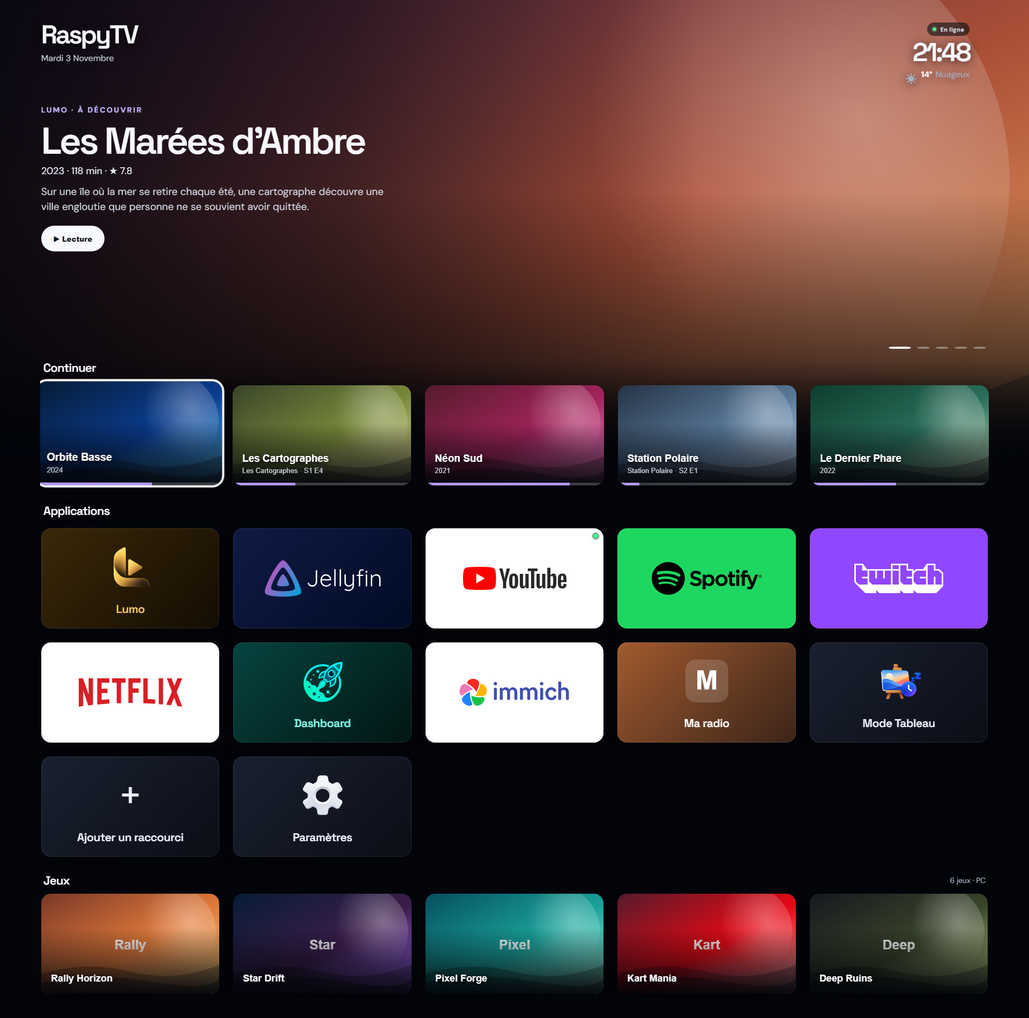
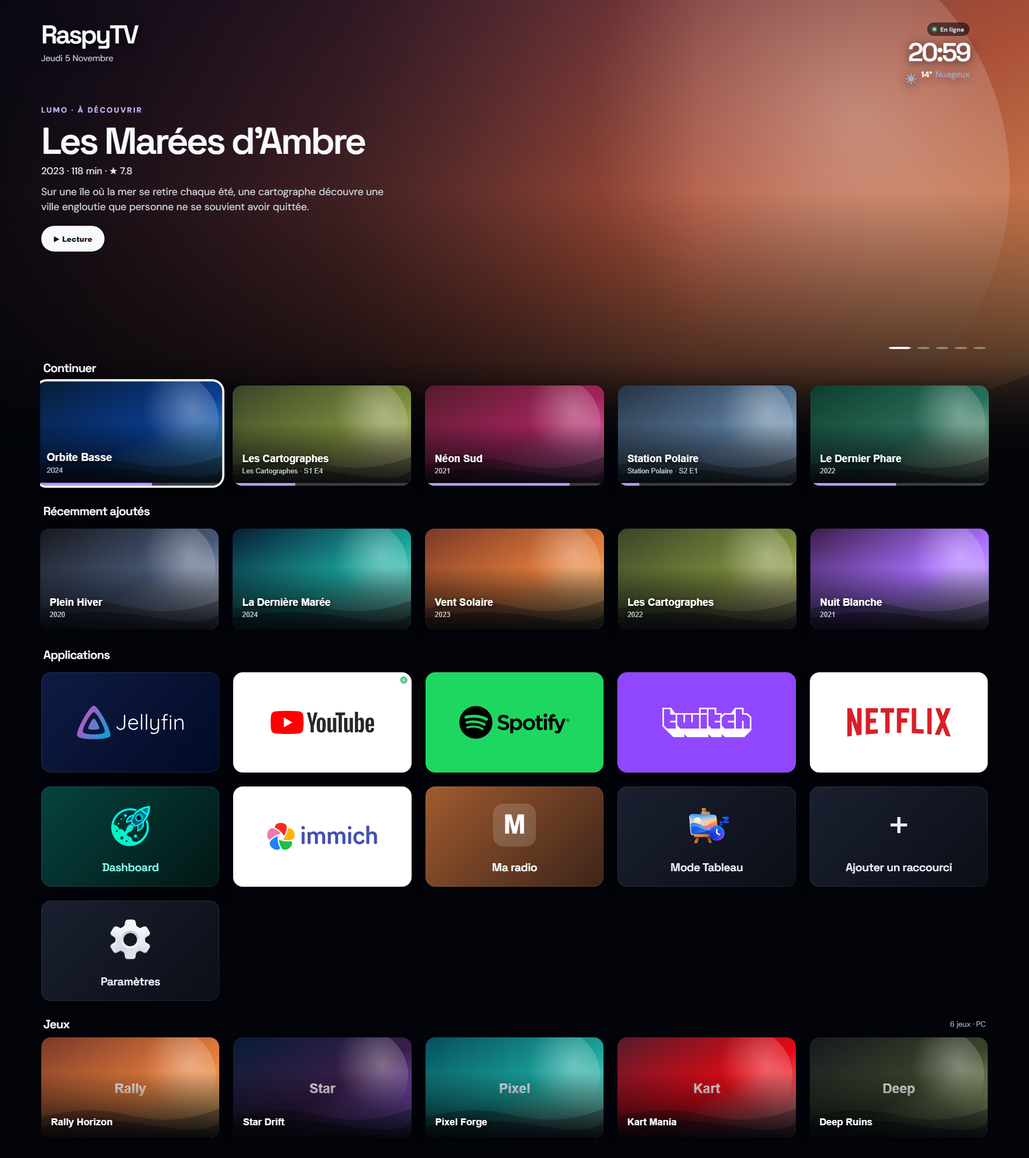
Tuile Jellyfin unique et ligne « Récemment ajoutés »
Retire la tuile Lumo : la page cinematic n'existe plus depuis Jellyfin
12.4. Une seule tuile ouvre l'interface web de Jellyfin. La lecture
depuis l'accueil ouvre la fiche du film et utilise son bouton de lecture,
et Échap ferme le lecteur natif. Ajoute une ligne des 20 derniers films
ajoutés sous « Continuer ».

Retire lumoPath et jellyfinRemoteUrl de site.json.

diff --git a/renderer.js b/renderer.js
@@ -13,8 +13,7 @@ function icon(app) { return /^(file:|https?:|assets\/)/.test(app.icon || '') ? `
 function play(kind = 'hover') { if (!state?.config.sounds) return; const now = performance.now(); if (kind === 'hover' && now - lastHoverAt < 200) return; if (kind === 'hover') lastHoverAt = now; if (!audioPlayers) { audioPlayers = { hover: new Audio('assets/sounds/navigation.wav'), open: new Audio('assets/sounds/navigation2.wav') }; Object.values(audioPlayers).forEach(audio => audio.preload = 'auto'); } if (kind === 'open') audioPlayers.hover.pause(); const audio = audioPlayers[kind === 'open' ? 'open' : 'hover']; audio.pause(); audio.currentTime = 0; audio.volume = Math.min(1, Math.max(0, state.config.soundVolume / 100)); audio.play().catch(() => {}); }
 // Full wordmarks on brand colours; services without a wordmark show their mark and name.
 const BRAND_TILES = {
-  jellyfin: { mark: 'assets/icons/lumo.png', label: 'Lumo', bg: 'linear-gradient(135deg,#3a2808,#140d03)', fg: '#f3c766' },
-  'jellyfin-web': { logo: 'assets/logos/jellyfin.svg', bg: 'linear-gradient(135deg,#101b45,#000b25)' },
+  jellyfin: { logo: 'assets/logos/jellyfin.svg', bg: 'linear-gradient(135deg,#101b45,#000b25)' },
   youtube: { logo: 'assets/logos/youtube.svg', bg: '#ffffff' },
   spotify: { logo: 'assets/logos/spotify.svg', bg: '#1ed760' },
   twitch: { logo: 'assets/logos/twitch.svg', bg: '#9146ff' },
@@ -38,7 +37,7 @@ function home() {
   const artCard = utilityTile('data-art', '<img src="assets/icons/gallery.png" alt="" draggable="false">', 'Mode Tableau');
   const addCard = utilityTile('data-add', '<span class="tile-plus">+</span>', 'Ajouter un raccourci');
   const settingsCard = utilityTile('data-page="settings"', '<img src="assets/icons/settings.png" alt="" draggable="false">', 'Paramètres');
-  return `<header class="tv-header"><div class="identity"><div><strong>RaspyTV</strong><p class="date" id="date">${dateText()}</p></div></div><div class="weather-stack">${networkBadge()}${state.config.showClock ? `<time id="clock">${timeText()}</time>` : ''}${state.config.showWeather ? weather() : ''}</div></header><section id="cinema-hero" class="cinema-hero is-loading" aria-live="polite"><div class="hero-shade"></div><div class="hero-copy"><span class="hero-kicker">LUMO · À DÉCOUVRIR</span><h1>Votre cinéma</h1><p>Chargement de votre sélection…</p></div></section><section class="home-stage"><section id="continue-section" class="content-strip" hidden><div class="home-section-head"><h2>Continuer</h2></div><div id="continue-row" class="continue-row"></div></section><section class="apps-section"><div class="home-section-head"><h2>Applications</h2></div><div class="grid tv-grid">${apps.map(appCard).join('')}${artCard}${addCard}${settingsCard}</div></section><section class="games-section"><div class="home-section-head"><h2>Jeux</h2><span id="moonlight-status">Moonlight · synchronisation…</span></div><div id="moonlight-row" class="game-row"><button class="game-card moonlight-setup" data-moonlight-open><img src="assets/icons/moonlight.svg" alt=""><span>Chargement des jeux…</span></button></div></section></section>`;
+  return `<header class="tv-header"><div class="identity"><div><strong>RaspyTV</strong><p class="date" id="date">${dateText()}</p></div></div><div class="weather-stack">${networkBadge()}${state.config.showClock ? `<time id="clock">${timeText()}</time>` : ''}${state.config.showWeather ? weather() : ''}</div></header><section id="cinema-hero" class="cinema-hero is-loading" aria-live="polite"><div class="hero-shade"></div><div class="hero-copy"><span class="hero-kicker">LUMO · À DÉCOUVRIR</span><h1>Votre cinéma</h1><p>Chargement de votre sélection…</p></div></section><section class="home-stage"><section id="continue-section" class="content-strip" hidden><div class="home-section-head"><h2>Continuer</h2></div><div id="continue-row" class="continue-row"></div></section><section id="recent-section" class="content-strip" hidden><div class="home-section-head"><h2>Récemment ajoutés</h2></div><div id="recent-row" class="continue-row"></div></section><section class="apps-section"><div class="home-section-head"><h2>Applications</h2></div><div class="grid tv-grid">${apps.map(appCard).join('')}${artCard}${addCard}${settingsCard}</div></section><section class="games-section"><div class="home-section-head"><h2>Jeux</h2><span id="moonlight-status">Moonlight · synchronisation…</span></div><div id="moonlight-row" class="game-row"><button class="game-card moonlight-setup" data-moonlight-open><img src="assets/icons/moonlight.svg" alt=""><span>Chargement des jeux…</span></button></div></section></section>`;
 }
 function settings() { const c = state.config; return `<header><button class="back" data-home>← <span>Accueil</span></button><div class="brand"><strong>Paramètres</strong></div></header><div class="settings"><section><h1>Personnalise Raspy TV</h1><p>Les réglages sont enregistrés localement sur ce Raspberry Pi.</p></section><section class="setting-card"><h2>Apparence</h2><label>Thème <select data-setting="theme"><option value="dark" ${c.theme === 'dark' ? 'selected' : ''}>Sombre</option><option value="light" ${c.theme === 'light' ? 'selected' : ''}>Clair</option><option value="auto" ${c.theme === 'auto' ? 'selected' : ''}>Automatique</option></select></label><label><input type="checkbox" data-setting="reducedMotion" ${c.reducedMotion ? 'checked' : ''}> Réduire les animations</label><label><input type="checkbox" data-setting="clock24" ${c.clock24 ? 'checked' : ''}> Heure au format 24 h</label></section><section class="setting-card"><h2>Accueil</h2><label><input type="checkbox" data-setting="showWeather" ${c.showWeather ? 'checked' : ''}> Afficher la météo de ${esc(state.site?.weatherLabel || 'ma ville')}</label><label><input type="checkbox" data-setting="showClock" ${c.showClock ? 'checked' : ''}> Afficher l’horloge</label><label><input type="checkbox" data-setting="showSpotify" ${c.showSpotify ? 'checked' : ''}> Afficher le widget Spotify</label><label><input type="checkbox" data-setting="showRecent" ${c.showRecent ? 'checked' : ''}> Afficher les applications récentes</label></section><section class="setting-card" id="audio-settings"><h2>Audio</h2><label><input type="checkbox" data-setting="sounds" ${c.sounds ? 'checked' : ''}> Sons d’interface</label><label>Volume des bruitages <input type="range" min="0" max="100" value="${c.soundVolume}" data-setting="soundVolume"><output>${c.soundVolume}%</output></label><div class="audio-system"><p>Détection des sorties audio…</p></div></section><section class="setting-card"><h2>Applications ouvertes</h2>${state.apps.filter(a => a.open).map(a => `<div class="app-row"><span>${esc(a.name)}</span><button data-close="${esc(a.id)}">Fermer</button></div>`).join('') || '<p>Aucune application ouverte.</p>'}<button class="danger" data-close-all>Fermer toutes les applications</button></section><section class="setting-card"><h2>Système</h2><div id="stats">Chargement des informations système…</div></section><section class="setting-card"><h2>Énergie</h2><p>Une confirmation est toujours demandée.</p><button class="danger" data-action="reboot">Redémarrer</button><button class="danger" data-action="poweroff">Éteindre</button></section></div>`; }
 function dialog() { return `<div class="modal"><form id="shortcut-form"><button type="button" class="close" data-dismiss>×</button><h2>Ajouter un raccourci</h2><label>Nom<input name="name" maxlength="60" required placeholder="Ex. Arte"></label><label>URL<input name="url" type="url" required placeholder="https://…"></label><p>L’icône est récupérée automatiquement. Tu peux la modifier ultérieurement.</p><button class="primary">Ajouter au Home</button></form></div>`; }
@@ -55,9 +54,12 @@ function addPerformanceSetting() { const host = root.querySelector('.settings');
 async function loadAudioSettings() { const host=document.querySelector('#audio-settings .audio-system'); if(!host)return; try { const audio=await window.raspy.getAudio(); if(!host.isConnected)return; if(audio.unavailable||!audio.sinks.length){host.innerHTML='<p>Aucune sortie audio détectée.</p><button class="back" data-audio-refresh>Actualiser</button>';return} host.innerHTML=`<label>Sortie système <select data-audio-output>${audio.sinks.map(sink=>`<option value="${esc(sink.id)}" ${sink.active?'selected':''}>${esc(sink.name)}${sink.detail?' · '+esc(sink.detail):''}</option>`).join('')}</select></label><label>Volume système <input type="range" min="0" max="100" value="${audio.volume}" data-system-volume><output>${audio.volume}%</output></label><button class="back audio-refresh" data-audio-refresh>Actualiser les appareils</button>`; } catch { host.innerHTML='<p>Contrôle audio indisponible.</p><button class="back" data-audio-refresh>Réessayer</button>'; } }
 function preloadHeroNeighbours() { if (heroItems.length < 2) return; [1,-1].forEach(offset => { const source = heroItems[(heroIndex + offset + heroItems.length) % heroItems.length]?.backdrop; if (!source || preloadedHeroImages.has(source)) return; preloadedHeroImages.add(source); const image = new Image(); image.decoding = 'async'; image.src = source; }); if (preloadedHeroImages.size > 14) preloadedHeroImages.clear(); }
 function setHero(index) { const host = document.querySelector('#cinema-hero'); if (!host || !heroItems.length) return; heroIndex = (index + heroItems.length) % heroItems.length; const item = heroItems[heroIndex]; document.querySelector('#background-video')?.pause(); preloadHeroNeighbours(); clearTimeout(heroTransition); host.classList.add('is-changing'); heroTransition = setTimeout(() => { host.style.backgroundImage = `url("${item.backdrop}")`; host.innerHTML = `<div class="hero-shade"></div><div class="hero-copy"><span class="hero-kicker">LUMO · À DÉCOUVRIR</span><h1>${esc(item.name)}</h1><div class="hero-meta">${[item.year,item.runtime?item.runtime+' min':'',item.rating?'★ '+item.rating:''].filter(Boolean).join(' · ')}</div><p>${esc(String(item.overview || '').replace(/<[^>]*>/g, '').trim() || 'Disponible dans votre médiathèque.')}</p><button class="hero-play" data-jellyfin-play="${item.id}">▶ Lecture</button></div><div class="hero-dots">${heroItems.map((_,i)=>`<button data-hero-index="${i}" class="${i===heroIndex?'active':''}" aria-label="Sélection ${i+1}"></button>`).join('')}</div>`; requestAnimationFrame(()=>host.classList.remove('is-loading','is-changing')); }, 160); }
-function renderContinue(items = []) { const section=document.querySelector('#continue-section'),row=document.querySelector('#continue-row'); if(!section||!row)return; section.hidden=!items.length; row.innerHTML=items.map(item=>`<button class="continue-card" data-jellyfin-play="${item.id}" aria-label="Continuer ${esc(item.name)}">${item.image?`<img src="${item.image}" alt="" loading="lazy" decoding="async" onerror="this.remove()">`:''}<span class="continue-shade"></span><span class="continue-copy"><strong>${esc(item.name)}</strong><small>${esc(item.subtitle||'Jellyfin')}</small></span>${item.progress?`<span class="continue-progress"><i style="width:${item.progress}%"></i></span>`:''}</button>`).join(''); }
+function mediaCard(item, action) { return `<button class="continue-card" data-jellyfin-play="${esc(item.id)}" aria-label="${action} ${esc(item.name)}">${item.image?`<img src="${esc(item.image)}" alt="" loading="lazy" decoding="async" onerror="this.remove()">`:''}<span class="continue-shade"></span><span class="continue-copy"><strong>${esc(item.name)}</strong><small>${esc(item.subtitle||'Jellyfin')}</small></span>${item.progress?`<span class="continue-progress"><i style="width:${Number(item.progress)}%"></i></span>`:''}</button>`; }
+function renderMediaRow(sectionId, rowId, items, action) { const section=document.querySelector(sectionId),row=document.querySelector(rowId); if(!section||!row)return; section.hidden=!items.length; row.innerHTML=items.map(item=>mediaCard(item,action)).join(''); }
+function renderContinue(items = []) { renderMediaRow('#continue-section','#continue-row',items,'Continuer'); }
+function renderRecent(items = []) { renderMediaRow('#recent-section','#recent-row',items,'Lire'); }
 function scheduleHeroRetry() { clearTimeout(heroRetryTimer); if (page !== 'home' || state?.activeId || document.hidden) return; const delay=heroRetryDelay; heroRetryDelay=Math.min(heroRetryDelay*2,120_000); heroRetryTimer=setTimeout(()=>loadHero(true),delay); }
-async function loadHero(force = false) { clearTimeout(heroTimer); clearTimeout(heroRetryTimer); const generation=++heroGeneration; try { if (!heroRequest) heroRequest=window.raspy.jellyfinHero(force).finally(()=>{heroRequest=null;}); const data = await heroRequest; if (page !== 'home' || generation !== heroGeneration || state.activeId) return; renderContinue(data.continueItems||[]); heroItems = data.items || []; if (heroItems.length) { heroRetryDelay=15_000; setHero(heroIndex); heroSchedule(); } else { const host=document.querySelector('#cinema-hero'); if(host) host.innerHTML=`<div class="hero-shade"></div><div class="hero-copy"><span class="hero-kicker">LUMO · JELLYFIN</span><h1>${data.needsLogin?'Connexion requise':'Médiathèque indisponible'}</h1><p>${data.needsLogin?'Ouvre Lumo ou Jellyfin et connecte-toi une seule fois. RaspyTV conservera ensuite la session.':'Le serveur répond, mais la médiathèque ne peut pas être chargée pour le moment.'}</p><button class="hero-play" data-open="jellyfin">Ouvrir Lumo</button><button class="hero-retry" data-hero-retry>Réessayer</button></div>`; if(!data.needsLogin)scheduleHeroRetry(); } } catch { scheduleHeroRetry(); } }
+async function loadHero(force = false) { clearTimeout(heroTimer); clearTimeout(heroRetryTimer); const generation=++heroGeneration; try { if (!heroRequest) heroRequest=window.raspy.jellyfinHero(force).finally(()=>{heroRequest=null;}); const data = await heroRequest; if (page !== 'home' || generation !== heroGeneration || state.activeId) return; renderContinue(data.continueItems||[]); renderRecent(data.recentItems||[]); heroItems = data.items || []; if (heroItems.length) { heroRetryDelay=15_000; setHero(heroIndex); heroSchedule(); } else { const host=document.querySelector('#cinema-hero'); if(host) host.innerHTML=`<div class="hero-shade"></div><div class="hero-copy"><span class="hero-kicker">JELLYFIN</span><h1>${data.needsLogin?'Connexion requise':'Médiathèque indisponible'}</h1><p>${data.needsLogin?'Ouvre Jellyfin et connecte-toi une seule fois. RaspyTV conservera ensuite la session.':'Le serveur répond, mais la médiathèque ne peut pas être chargée pour le moment.'}</p><button class="hero-play" data-open="jellyfin">Ouvrir Jellyfin</button><button class="hero-retry" data-hero-retry>Réessayer</button></div>`; if(!data.needsLogin)scheduleHeroRetry(); } } catch { scheduleHeroRetry(); } }
 function paintNetworkStatus() { const host=document.querySelector('#network-status'); if(!host)return; const status=networkData?(networkData.online?'online':'offline'):'checking'; host.className=`network-status ${status}`; host.innerHTML=`<i></i>${networkData?(networkData.online?'En ligne':'Hors ligne'):'Vérification…'}`; host.title=networkData?.online?'Connexion Internet disponible':networkData?.lan?'Réseau local disponible, Internet indisponible':'Aucune connexion réseau'; }
 async function refreshNetworkStatus() { clearTimeout(networkTimer); const wasOnline=networkData?.online; try { networkData=await window.raspy.networkStatus(); paintNetworkStatus(); if(wasOnline===false&&networkData.online&&page==='home'&&!state?.activeId)loadHero(true); } catch { networkData={online:false,lan:false}; paintNetworkStatus(); } networkTimer=setTimeout(refreshNetworkStatus,15_000); }
 function renderMoonlightGames(data) { const row=document.querySelector('#moonlight-row'),status=document.querySelector('#moonlight-status'); if(!row||!status)return; const games=data.games||[]; if(games.length){status.textContent=`${games.length} jeu${games.length>1?'x':''} · PC`; row.innerHTML=games.map(game=>`<button class="game-card" data-moonlight-game="${esc(game.name)}" aria-label="Jouer à ${esc(game.name)}">${game.boxart?`<img src="${esc(game.boxart)}" alt="" loading="lazy" decoding="async" onerror="this.remove()">`:`<img class="game-fallback" src="assets/icons/moonlight.svg" alt="">`}<span>${esc(game.name)}</span></button>`).join(''); return;} status.textContent=data.needsPairing?'PC détecté · association requise':data.unavailable?'PC indisponible':'Aucun jeu publié'; row.innerHTML=`<button class="game-card moonlight-setup" data-moonlight-open><img src="assets/icons/moonlight.svg" alt=""><span>${data.needsPairing?'Associer Moonlight':data.unavailable?'Ouvrir Moonlight':'Configurer les jeux'}</span></button>`; }

diff --git a/main.js b/main.js
@@ -32,15 +32,14 @@ const MOONLIGHT_BIN = '/usr/bin/moonlight-qt';
 const SITE_FILE = path.join(DATA_DIR, 'site.json');
 // Network addresses and location live outside the repository, in ~/.config/raspy-tv/site.json
 // (see site.example.json). An empty URL hides the matching tile.
-const SITE_DEFAULTS = { jellyfinUrl: 'http://jellyfin.local:8096', jellyfinRemoteUrl: '', lumoPath: '/web/cinematic/index.html#home', moonlightHost: '', dashboardUrl: '', immichUrl: '', weatherLatitude: 48.8566, weatherLongitude: 2.3522, weatherLabel: 'Paris', timezone: 'Europe/Paris' };
+const SITE_DEFAULTS = { jellyfinUrl: 'http://jellyfin.local:8096', moonlightHost: '', dashboardUrl: '', immichUrl: '', weatherLatitude: 48.8566, weatherLongitude: 2.3522, weatherLabel: 'Paris', timezone: 'Europe/Paris' };
 function loadSite() { try { return { ...SITE_DEFAULTS, ...JSON.parse(fs.readFileSync(SITE_FILE, 'utf8')) }; } catch { return { ...SITE_DEFAULTS }; } }
 const SITE = loadSite();
 const JELLYFIN = new URL(SITE.jellyfinUrl).origin;
-const JELLYFIN_HOSTS = new Set([SITE.jellyfinUrl, SITE.jellyfinRemoteUrl].filter(Boolean).map(url => new URL(url).hostname.toLowerCase()));
+const JELLYFIN_HOSTS = new Set([new URL(SITE.jellyfinUrl).hostname.toLowerCase()]);
 const MOONLIGHT_HOST = SITE.moonlightHost;
 const DEFAULT_APPS = [
-  { id: 'jellyfin', name: 'Lumo', url: `${JELLYFIN}${SITE.lumoPath}`, icon: 'assets/icons/lumo.png', color: '#d3a13a', description: 'Ta médiathèque' },
-  { id: 'jellyfin-web', name: 'Jellyfin', url: `${SITE.jellyfinRemoteUrl ? new URL(SITE.jellyfinRemoteUrl).origin : JELLYFIN}/web/#/home`, icon: 'assets/icons/jellyfin.svg', color: '#a855f7', description: 'Interface Jellyfin officielle' },
+  { id: 'jellyfin', name: 'Jellyfin', url: `${JELLYFIN}/web/#/home`, icon: 'assets/icons/jellyfin.svg', color: '#a855f7', description: 'Ta médiathèque' },
   { id: 'youtube', name: 'YouTube', url: 'https://www.youtube.com/', icon: 'assets/icons/youtube.svg', color: '#ff244a', description: 'Vidéos et musique' },
   { id: 'spotify', name: 'Spotify', url: 'https://open.spotify.com/', icon: 'assets/icons/spotify.svg', color: '#1ed760', description: 'Musique et podcasts' },
   { id: 'twitch', name: 'Twitch', url: 'https://www.twitch.tv/', icon: 'assets/icons/twitch.svg', color: '#a970ff', description: 'Live et gaming' },
@@ -53,6 +52,7 @@ let artMode = false;
 let mainWindow, splashWindow, navWindow, keyboardView, keyboardTarget, loadingView, moonlightOverlay, squeekboardProcess, layerNavProcess, navControlServer, quitting = false, activeId = null, config, views = new Map(), navShown = false, navTimer, navInputTimer, keyboardShown = false, keyboardHideTimer, systemKeyboardVisible = false, heroCache = null, heroCacheAt = 0, heroCacheDay = '', jellyfinAuthHeader = '', jellyfinVault = null, nativeProcess = null, moonlightCache = null, moonlightCacheAt = 0, moonlightRequest = null, systemVolume = null, loadingTimer = null, loadingShownAt = 0;
 const viewLastUsed = new Map();
 const adapterCssKeys = new WeakMap();
+const viewLoads = new WeakMap();
 const configuredSessions = new Set();
 
 function ensureDirs() { [DATA_DIR, ICON_DIR, LOG_DIR].forEach(dir => { fs.mkdirSync(dir, { recursive: true, mode: 0o700 }); try { fs.chmodSync(dir, 0o700); } catch {} }); }
@@ -211,13 +211,13 @@ function stopNativeMoonlight() {
     try { process.kill(-child.pid, 'SIGTERM'); } catch { try { child.kill('SIGTERM'); } catch {} }
   }
   // Also stop an orphaned Qt client. This covers a stream that outlived its
-  // tracked launcher and prevents its audio continuing behind Lumo/home.
+  // tracked launcher and prevents its audio continuing behind Jellyfin/home.
   execFile('/usr/bin/pkill', ['-TERM', '-x', 'moonlight-qt'], error => {
     if (error && error.code !== 1) log(`moonlight cleanup failure ${error.message}`);
   });
   hideMoonlightOverlay();
 }
-function showHome() { const refreshJellyfin = activeId === 'jellyfin' || activeId === 'jellyfin-web'; showLoading('Accueil RaspyTV'); stopNativeMoonlight(); hideKeyboard(); pauseActiveMedia(); activeId = null; if (refreshJellyfin) { heroCache = null; heroCacheAt = 0; } hideAllViews(); restoreShellFullscreen(); mainWindow.webContents.focus(); emitState(); hideLoadingSoon(120); }
+function showHome() { const refreshJellyfin = activeId === 'jellyfin'; showLoading('Accueil RaspyTV'); stopNativeMoonlight(); hideKeyboard(); pauseActiveMedia(); activeId = null; if (refreshJellyfin) { heroCache = null; heroCacheAt = 0; } hideAllViews(); restoreShellFullscreen(); mainWindow.webContents.focus(); emitState(); hideLoadingSoon(120); }
 function leaveNativeForApp() { stopNativeMoonlight(); restoreShellFullscreen(); }
 
 function parseCsvLine(line) {
@@ -318,7 +318,7 @@ function keepJellyfinSession(serviceSession) {
   serviceSession.cookies.get({}).then(cookies => Promise.all(cookies.map(promote))).catch(error => log(`jellyfin cookie scan failure ${error.message}`));
 }
 async function loadServiceContent(view, service) {
-  const jellyfin = service.id === 'jellyfin' || service.id === 'jellyfin-web';
+  const jellyfin = service.id === 'jellyfin';
   const origin = new URL(service.url).origin;
   try {
     if (jellyfin && jellyfinVault) {
@@ -338,7 +338,7 @@ async function loadServiceContent(view, service) {
 function createServiceView(service) {
   const partition = `persist:raspy-tv-${service.id}`;
   const serviceSession = session.fromPartition(partition);
-  const jellyfin = service.id === 'jellyfin' || service.id === 'jellyfin-web';
+  const jellyfin = service.id === 'jellyfin';
   if (jellyfin) keepJellyfinSession(serviceSession);
   maintainSessionCache(serviceSession, service.id);
   serviceSession.setPermissionRequestHandler((_webContents, permission, callback) => callback(permission === 'fullscreen'));
@@ -351,7 +351,7 @@ function createServiceView(service) {
     if (input.type !== 'keyDown' || (input.key !== 'Escape' && input.key !== 'Home')) return;
     event.preventDefault();
     if (service.id === 'jellyfin' && input.key === 'Escape') {
-      view.webContents.executeJavaScript(`typeof window.__cinematicClosePlayer==='function'&&window.__cinematicClosePlayer(true)`, true)
+      view.webContents.executeJavaScript(`(()=>{if(!location.hash.startsWith('#/video')&&!document.querySelector('video.htmlvideoplayer'))return false;history.back();return true})()`, true)
         .then(closed => { if (!closed) showHome(); })
         .catch(showHome);
       return;
@@ -366,7 +366,7 @@ function createServiceView(service) {
   if (jellyfin) view.webContents.on('did-navigate-in-page', () => setTimeout(() => captureJellyfinStorage(view, service), 1200));
   view.webContents.on('console-message', (_event, level, message) => { const text = typeof level === 'object' ? level.message : message; if (text === '__RASPY_OSK_OPEN__') showKeyboard(view.webContents); else if (text === '__RASPY_OSK_CLOSE__') hideKeyboardSoon(view.webContents); });
   view.webContents.on('will-navigate', (event, url) => { if (!validUrl(url)) event.preventDefault(); });
-  loadServiceContent(view, service);
+  viewLoads.set(view, loadServiceContent(view, service));
   return view;
 }
 function launch(serviceId) { const service = allApps().find(a => a.id === serviceId); if (!service) throw new Error('Application inconnue'); showLoading(service.name); leaveNativeForApp(); hideKeyboard(); if (activeId && activeId !== serviceId) pauseActiveMedia(); let view = views.get(service.id); if (!view) { evictInactiveViews(service.id); view = createServiceView(service); views.set(service.id, view); log(`opened ${service.id}`); } hideAllViews(); view.webContents.setAudioMuted(false); view.setBounds(viewBounds()); showLoading(service.name); raiseNav(); activeId = service.id; viewLastUsed.set(service.id, Date.now()); config.recent = [service.id, ...config.recent.filter(x => x !== service.id)].slice(0, 12); saveConfig(); view.webContents.focus(); if (!view.webContents.isLoading()) hideLoadingSoon(100); }
@@ -377,7 +377,7 @@ async function jellyfinHero(force = false) {
   const helper = new BrowserWindow({ show: false, webPreferences: { partition: 'persist:raspy-tv-jellyfin', contextIsolation: true, nodeIntegration: false, sandbox: true } });
   try {
     maintainSessionCache(helper.webContents.session, 'jellyfin');
-    // Load a tiny same-origin JSON page: localStorage stays accessible without booting the full Cinematic client.
+    // Load a tiny same-origin JSON page: localStorage stays accessible without booting the full web client.
     await helper.loadURL(`${JELLYFIN}/System/Info/Public`);
     await restoreJellyfinStorage(helper.webContents, JELLYFIN).catch(() => false);
     const result = await helper.webContents.executeJavaScript(`(async()=>{try{
@@ -395,7 +395,9 @@ async function jellyfinHero(force = false) {
       const recent=await recentResponse.json(),resume=resumeResponse.ok?await resumeResponse.json():{Items:[]},image=(x,type,width)=>location.origin+'/Items/'+x.Id+'/Images/'+type+(type==='Backdrop'?'/0':'')+'?maxWidth='+width+'&quality=76';
       const items=(recent.Items||[]).filter(x=>x.BackdropImageTags?.length).map(x=>({id:x.Id,name:x.Name,overview:x.Overview||'',year:x.ProductionYear||'',rating:x.CommunityRating?Number(x.CommunityRating).toFixed(1):'',runtime:x.RunTimeTicks?Math.round(x.RunTimeTicks/600000000):'',backdrop:image(x,'Backdrop',1400)}));
       const continueItems=(resume.Items||[]).slice(0,8).map(x=>({id:x.Id,name:x.Name,subtitle:x.Type==='Episode'?[x.SeriesName,'S'+(x.ParentIndexNumber||0)+' E'+(x.IndexNumber||0)].filter(Boolean).join(' · '):(x.ProductionYear||'Film'),progress:Math.max(0,Math.min(100,Number(x.UserData?.PlayedPercentage||0))),image:x.BackdropImageTags?.length?image(x,'Backdrop',640):x.ImageTags?.Primary?image(x,'Primary',500):''}));
-      return{items,continueItems,needsLogin:false,authorization,session:{token:selected.token,userId:selected.userId}}
+      const addedResponse=await fetch('/Items?'+query+'&Recursive=true&IncludeItemTypes=Movie&SortBy=DateCreated,SortName&SortOrder=Descending&Limit=20&Fields='+fields+'&ImageTypeLimit=1&EnableImageTypes=Backdrop,Primary',{headers,cache:'no-store'}),added=addedResponse.ok?await addedResponse.json():{Items:[]};
+      const recentItems=(added.Items||[]).map(x=>({id:x.Id,name:x.Name,subtitle:x.ProductionYear||'Film',progress:Math.max(0,Math.min(100,Number(x.UserData?.PlayedPercentage||0))),image:x.BackdropImageTags?.length?image(x,'Backdrop',640):x.ImageTags?.Primary?image(x,'Primary',500):''}));
+      return{items,continueItems,recentItems,needsLogin:false,authorization,session:{token:selected.token,userId:selected.userId}}
     }catch(error){return{items:[],continueItems:[],error:error.message}}})()`, true);
     if (result.authorization) jellyfinAuthHeader = result.authorization;
     if (result.session) { const valid = await validateJellyfinCandidate(result.session, JELLYFIN); if (valid) saveJellyfinVault(valid); }
@@ -409,9 +411,12 @@ async function jellyfinHero(force = false) {
 async function playJellyfin(itemId) {
   if (!/^[a-f0-9]{16,64}$/i.test(String(itemId || ''))) throw new Error('Identifiant Jellyfin invalide');
   launch('jellyfin'); const view = views.get('jellyfin');
-  const trigger = () => view.webContents.executeJavaScript(`typeof play==='function'&&play(${JSON.stringify(String(itemId))})`, true).catch(() => {});
-  const current = view.webContents.getURL();
-  if (current.includes(SITE.lumoPath.split('#')[0])) trigger(); else { await view.webContents.loadURL(`${JELLYFIN}${SITE.lumoPath}`); trigger(); }
+  await viewLoads.get(view);
+  if (view.webContents.isDestroyed()) return false;
+  const serverId = jellyfinVault?.serverId ? `&serverId=${encodeURIComponent(jellyfinVault.serverId)}` : '';
+  const route = `#/details?id=${String(itemId)}${serverId}`;
+  // Jellyfin has no autoplay route: open the item page, then press its play button, which also handles resume.
+  view.webContents.executeJavaScript(`(()=>{location.hash=${JSON.stringify(route)};const route=location.hash,started=Date.now();return new Promise(done=>{const attempt=()=>{if(location.hash!==route)return done(false);const button=[...document.querySelectorAll('.itemDetailPage:not(.hide) .btnPlay')].find(item=>item.offsetParent&&!item.classList.contains('hide'));if(button){button.click();return done(true)}if(Date.now()-started>15000)return done(false);setTimeout(attempt,200)};setTimeout(attempt,500)})})()`, true).catch(error => log(`jellyfin play failure ${error.message}`));
   return true;
 }
 function closeService(serviceId, options = {}) { const view = views.get(serviceId); if (!view) return; mainWindow.contentView.removeChildView(view); view.webContents.close(); views.delete(serviceId); viewLastUsed.delete(serviceId); if (activeId === serviceId) showHome(); log(`closed ${serviceId}${options.reason ? ` (${options.reason})` : ''}`); if (!options.silent) emitState(); }

diff --git a/demo/mock-raspy.js b/demo/mock-raspy.js
@@ -18,10 +18,18 @@
     { name: 'Le Dernier Phare', subtitle: '2022', progress: 48, image: art('#0d3d2e', '#2a6e5a', '#d8f0c8') },
     { name: 'Plein Hiver', subtitle: '2020', progress: 90, image: art('#17191f', '#4a5a78', '#e6eefc') },
   ].map((item, i) => ({ id: `cont${i}0000000000000`, ...item }));
+  const recentItems = [
+    { name: 'Plein Hiver', subtitle: '2020', image: art('#17191f', '#4a5a78', '#e6eefc') },
+    { name: 'La Dernière Marée', subtitle: '2024', image: art('#071c35', '#1aa39a', '#a8ffe8') },
+    { name: 'Vent Solaire', subtitle: '2023', image: art('#7a3828', '#e07a3a', '#ffd889') },
+    { name: 'Les Cartographes', subtitle: '2022', image: art('#39452a', '#7a8a3a', '#e8e0a0') },
+    { name: 'Nuit Blanche', subtitle: '2021', image: art('#3b1d4a', '#a970ff', '#e6d8ff') },
+    { name: 'Rive Gauche', subtitle: '2020', image: art('#551b2c', '#e50914', '#ffb3b3') },
+  ].map((item, i) => ({ id: `rece${i}0000000000000`, ...item }));
   const games = [['Rally Horizon', '#7a3828', '#e07a3a', '#ffd889'], ['Star Drift', '#071c35', '#3b1d4a', '#a970ff'], ['Pixel Forge', '#064f5e', '#1aa39a', '#a8ffe8'], ['Kart Mania', '#551b2c', '#e50914', '#ffb3b3'], ['Deep Ruins', '#17191f', '#39452a', '#c8d890'], ['Sky Harbor', '#0a3d91', '#4f8cff', '#e6eefc']]
     .map(([name, a, b, c]) => ({ name, id: name, hdr: false, boxart: art(a, b, c, name.split(' ')[0]) }));
   const apps = [
-    ['jellyfin', 'Lumo', 'assets/icons/lumo.png', '#d3a13a'], ['jellyfin-web', 'Jellyfin', 'assets/icons/jellyfin.svg', '#a855f7'],
+    ['jellyfin', 'Jellyfin', 'assets/icons/jellyfin.svg', '#a855f7'],
     ['youtube', 'YouTube', 'assets/icons/youtube.svg', '#ff244a'], ['spotify', 'Spotify', 'assets/icons/spotify.svg', '#1ed760'],
     ['twitch', 'Twitch', 'assets/icons/twitch.svg', '#a970ff'], ['netflix', 'Netflix', 'assets/icons/netflix.svg', '#e50914'],
     ['homelab', 'Dashboard', 'assets/icons/dashy.png', '#00e5d0'], ['immich', 'Immich', 'assets/icons/immich.png', '#fa2921'],
@@ -36,7 +44,7 @@
     saveSettings: async patch => { Object.assign(config, patch); listeners.state.forEach(fn => fn({ ...state })); return state; },
     weather: async () => ({ temperature: 14, code: 2, min: 9, max: 17, offline: false }),
     networkStatus: async () => ({ online: true, lan: true }),
-    jellyfinHero: async () => ({ items, continueItems, needsLogin: false }),
+    jellyfinHero: async () => ({ items, continueItems, recentItems, needsLogin: false }),
     moonlightGames: async () => ({ games, needsPairing: false, unavailable: false }),
     stats: async () => ({ hostname: 'raspytv', uptime: 3600, cpu: 'Cortex-A72', ram: { used: 1.4 * 1073741824, total: 4 * 1073741824 }, temperature: 48.3, disk: { free: '18G', used: '41' }, residentApps: 2, residentLimit: 4, electron: '37.2.0', node: '22.16.0' }),
     getAudio: async () => ({ sinks: [{ id: 'hdmi', name: 'HDMI · Téléviseur', detail: '', volume: 45, active: true }, { id: 'bt', name: 'Casque sans fil', detail: 'Bluetooth', volume: 30, active: false }], activeId: 'hdmi', volume: 45 }),

diff --git a/README.md b/README.md
@@ -8,8 +8,8 @@ Interface Smart TV pour Raspberry Pi 4, construite avec Electron. Elle démarre 
 
 ## Fonctionnalités
 
-- **Accueil cinéma** : bandeau des films de la médiathèque Jellyfin (7 titres tirés au sort chaque jour, défilement automatique), rangée « Continuer » avec la progression de lecture, lecture directe depuis l'accueil.
-- **Tuiles uniformes** : « Continuer », applications et jeux partagent une même case 16:9, cinq par ligne. Chaque service affiche son logo complet sur la couleur de sa marque, et un point vert signale une application déjà ouverte.
+- **Accueil cinéma** : bandeau des films de la médiathèque Jellyfin (7 titres tirés au sort chaque jour, défilement automatique), rangées « Continuer » (avec la progression de lecture) et « Récemment ajoutés », lecture directe depuis l'accueil.
+- **Tuiles uniformes** : « Continuer », « Récemment ajoutés », applications et jeux partagent une même case 16:9, cinq par ligne. Chaque service affiche son logo complet sur la couleur de sa marque, et un point vert signale une application déjà ouverte.
 - **Applications persistantes** : Jellyfin, YouTube, Spotify, Twitch, Netflix, un dashboard et Immich s'ouvrent chacun dans leur propre vue, avec leur session conservée. Les applications les moins récentes sont fermées au-delà d'une limite réglable (2 à 6) pour ménager la mémoire du Pi.
 - **Raccourcis personnalisés** : ajout d'un site par son URL, icône récupérée automatiquement.
 - **Jeux Moonlight** : liste des jeux publiés par le PC (Sunshine / GameStream) et lancement natif de `moonlight-qt`, avec clavier virtuel pendant le stream.
@@ -71,8 +71,6 @@ Les adresses réseau et la localisation ne sont pas dans le code. Elles se règl
 | Clé | Rôle |
 | --- | --- |
 | `jellyfinUrl` | Serveur Jellyfin sur le réseau local (accueil, « Continuer », lecture). |
-| `jellyfinRemoteUrl` | Adresse alternative du même serveur (par exemple via VPN), facultative. |
-| `lumoPath` | Chemin du client web Jellyfin ouvert par la tuile Lumo. |
 | `moonlightHost` | Adresse du PC de jeu ; vide pour désactiver les jeux. |
 | `dashboardUrl`, `immichUrl` | Tuiles facultatives ; une URL vide masque la tuile. |
 | `weatherLatitude`, `weatherLongitude`, `weatherLabel`, `timezone` | Météo Open-Meteo et fuseau horaire. |
